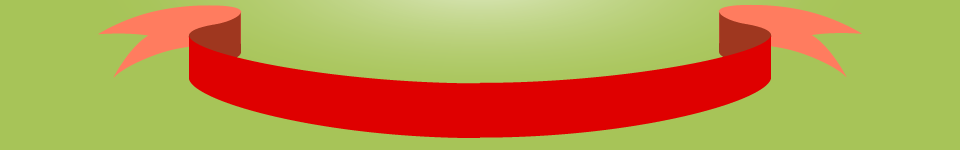
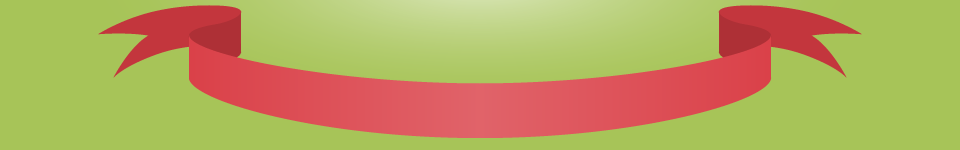
New ribbon and sky colors

Changed region(s): [[0.0938, 0.0267, 0.9062, 0.9333], [0.875, 0.48, 0.9062, 0.5067]]

diff --git a/css/style.css b/css/style.css
@@ -19,6 +19,10 @@ body {
 }
 
 header {
+	background: rgb(120, 158, 219) url('../img/bg-header.gif') center bottom repeat-x;
+	
+}
+header > #branding {
 	background: rgb(120, 158, 219) url('../img/sky.png') center bottom no-repeat;
 	height: 260px;
 }

diff --git a/index.html b/index.html
@@ -25,7 +25,7 @@
 
 <body>
 	<header>
-		<div class="container">
+		<div id="branding" class="container">
 			<div class="sixteen columns">
 				<h1>
 					<span class="subtitle">Salado's</span>
